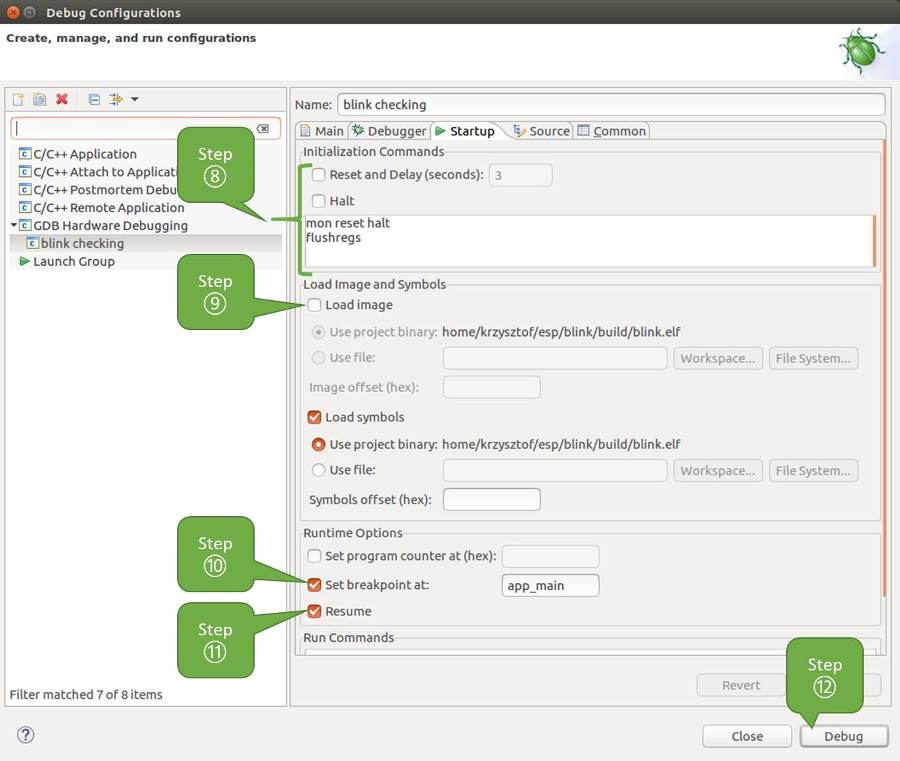
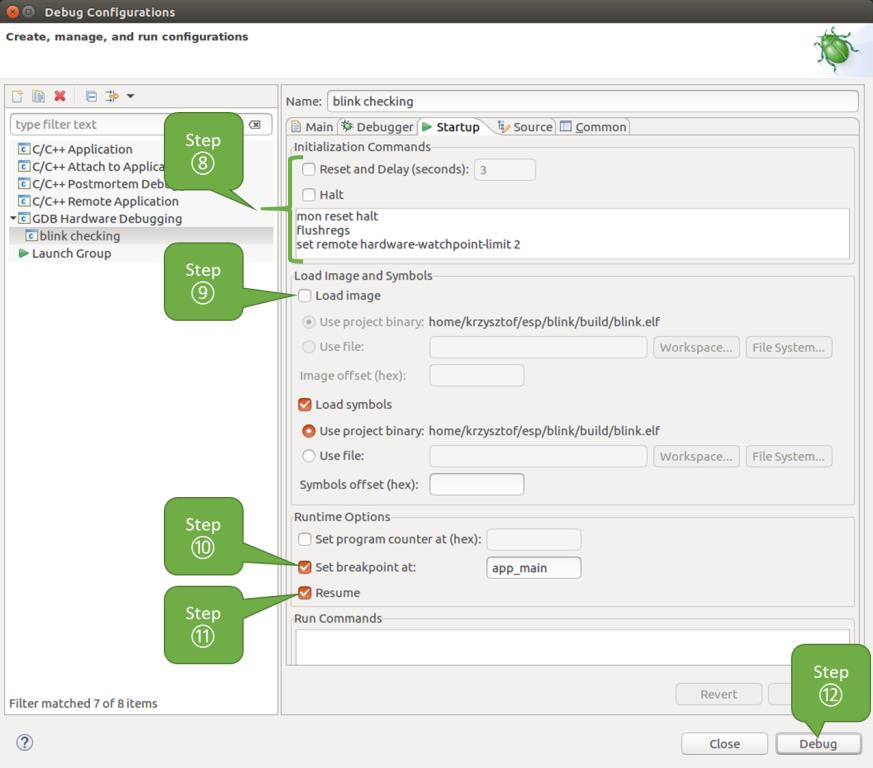
docs: Adds watchpoints limit configuration to example gdbinit
Closes https://github.com/espressif/esp-idf/issues/2335

Changed region(s): [[0.0, 0.0302, 1.0, 0.9974], [0.0, 0.0, 0.3093, 0.0604]]

diff --git a/docs/en/api-guides/jtag-debugging/using-debugger.rst b/docs/en/api-guides/jtag-debugging/using-debugger.rst
@@ -48,14 +48,19 @@ Once installation is complete, configure debugging session following steps below
 
         Configuration of GDB Hardware Debugging - Debugger tab
 
-8.  The last tab to that requires changing of default configuration is "Startup". Under "Initialization Commands" uncheck "Reset and Delay (seconds)" and "Halt"". Then, in entry field below, type ``mon reset halt`` and ``flushregs`` (in two separate lines).
+8.  The last tab to that requires changing of default configuration is "Startup". Under "Initialization Commands" uncheck "Reset and Delay (seconds)" and "Halt"". Then, in entry field below, enter the following lines:
+
+    ::
+
+        mon reset halt
+        flushregs
+        set remote hardware-watchpoint-limit 2
 
     .. note::
         If you want to update image in the flash automatically before starting new debug session add the following lines of commands at the beginning of "Initialization Commands" textbox::
 
             mon reset halt
             mon program_esp32 ${workspace_loc:blink/build/blink.bin} 0x10000 verify
-
 
     For description of ``program_esp32`` command see :ref:`jtag-upload-app-debug`.
 
@@ -112,6 +117,7 @@ Command Line
     ::
 
         target remote :3333
+        set remote hardware-watchpoint-limit 2
         mon reset halt
         flushregs
         thb app_main

diff --git a/docs/en/api-guides/jtag-debugging/tips-and-quirks.rst b/docs/en/api-guides/jtag-debugging/tips-and-quirks.rst
@@ -99,6 +99,7 @@ What is the meaning of debugger's startup commands?
 
 On startup, debugger is issuing sequence of commands to reset the chip and halt it at specific line of code. This sequence (shown below) is user defined to pick up at most convenient / appropriate line and start debugging. 
 
+* ``set remote hardware-watchpoint-limit 2`` — Restrict GDB to using two hardware watchpoints supported by ESP32. For more information see https://sourceware.org/gdb/onlinedocs/gdb/Remote-Configuration.html.
 * ``mon reset halt`` — reset the chip and keep the CPUs halted
 * ``flushregs`` — monitor (``mon``) command can not inform GDB that the target state has changed. GDB will assume that whatever stack the target had before ``mon reset halt`` will still be valid. In fact, after reset the target state will change, and executing ``flushregs`` is a way to force GDB to get new state from the target.
 * ``thb app_main`` — insert a temporary hardware breakpoint at ``app_main``, put here another function name if required
